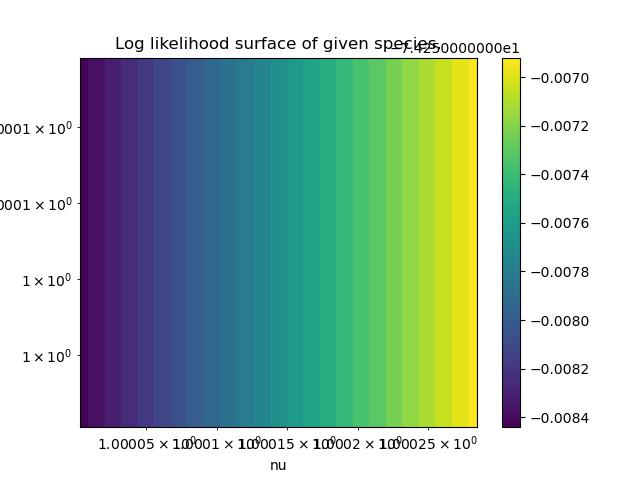
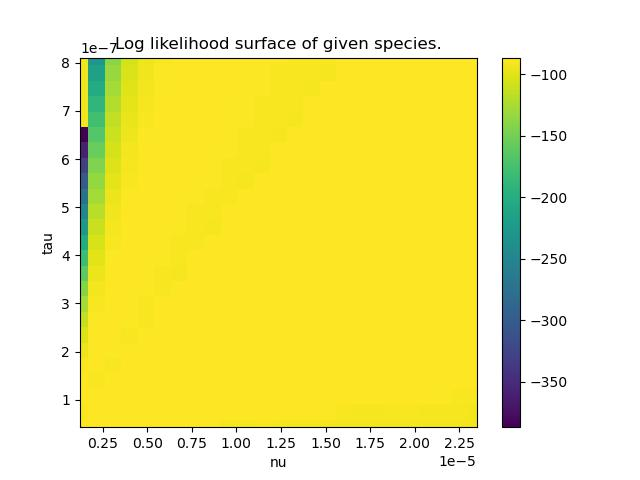
likelihood plots

diff --git a/Scripts/plot_likelihood.py b/Scripts/plot_likelihood.py
@@ -421,13 +421,13 @@ class PlotLikelihood():
                             'demographic model.')
             with open(file, 'w') as f:
                 min_nu = 0.1 * nu_prime
-                max_nu = 10 * nu_prime
+                max_nu = 1.9 * nu_prime
                 min_tau = 0.1 * tau_prime
-                max_tau = 10 * tau_prime
+                max_tau = 1.9 * tau_prime
                 nx = 25
                 ny = 25
-                x, y = numpy.meshgrid(numpy.logspace(min_nu, max_nu, nx),
-                                      numpy.logspace(min_tau, max_tau, ny),
+                x, y = numpy.meshgrid(numpy.linspace(min_nu, max_nu, nx),
+                                      numpy.linspace(min_tau, max_tau, ny),
                                       indexing='ij')
                 z_shape = (nx, ny)
                 z = numpy.ones(z_shape)
@@ -461,8 +461,8 @@ class PlotLikelihood():
                 # set the limits of the plot to the limits of the data
                 ax.axis([x.min(), x.max(), y.min(), y.max()])
                 fig.colorbar(c, ax=ax)
-                ax.set_yscale('log')
-                ax.set_xscale('log')
+                # ax.set_yscale('log')
+                # ax.set_xscale('log')
                 ax.set_title('Log likelihood surface of given species.')
                 ax.set_ylabel('tau')
                 ax.set_xlabel('nu')
